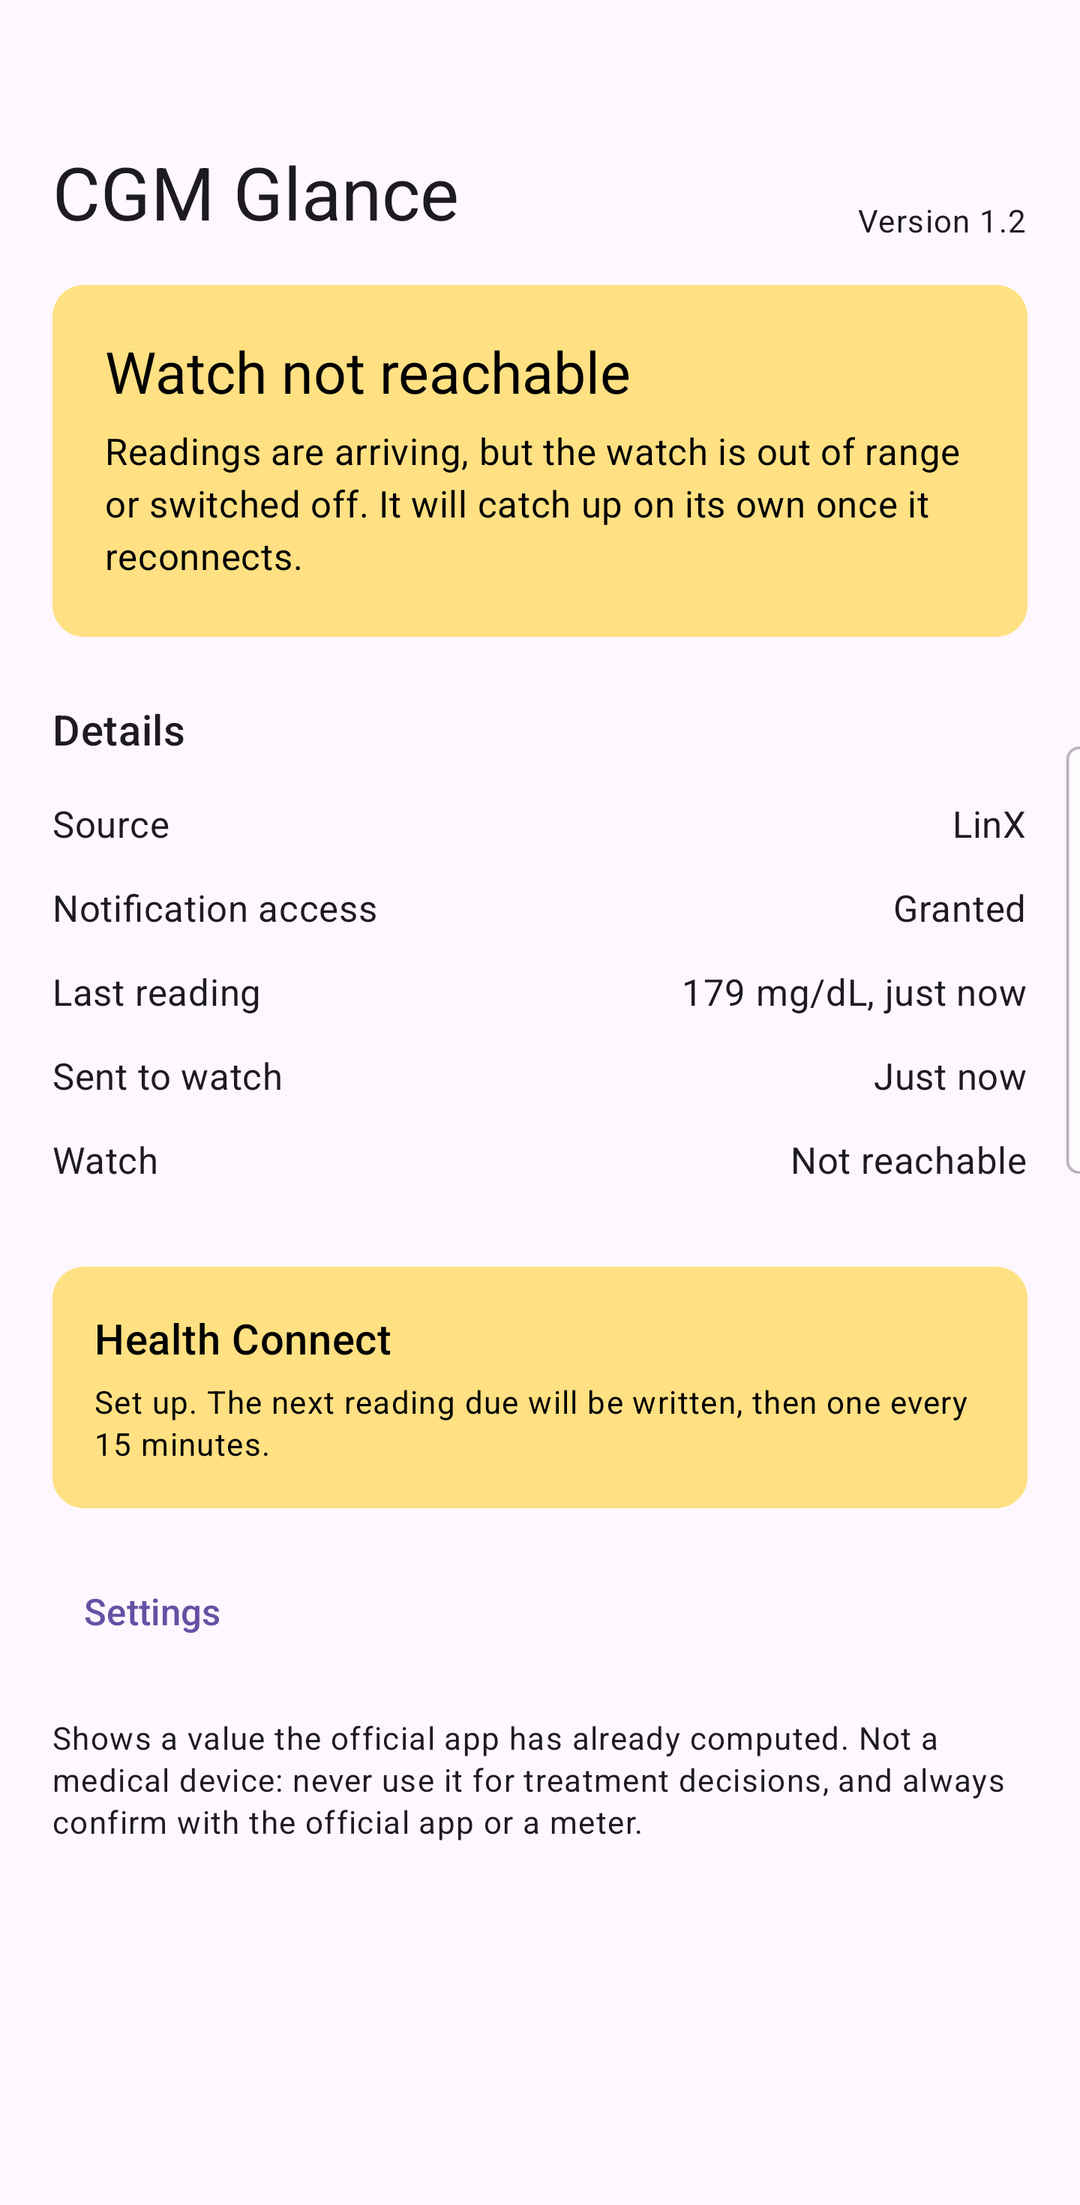
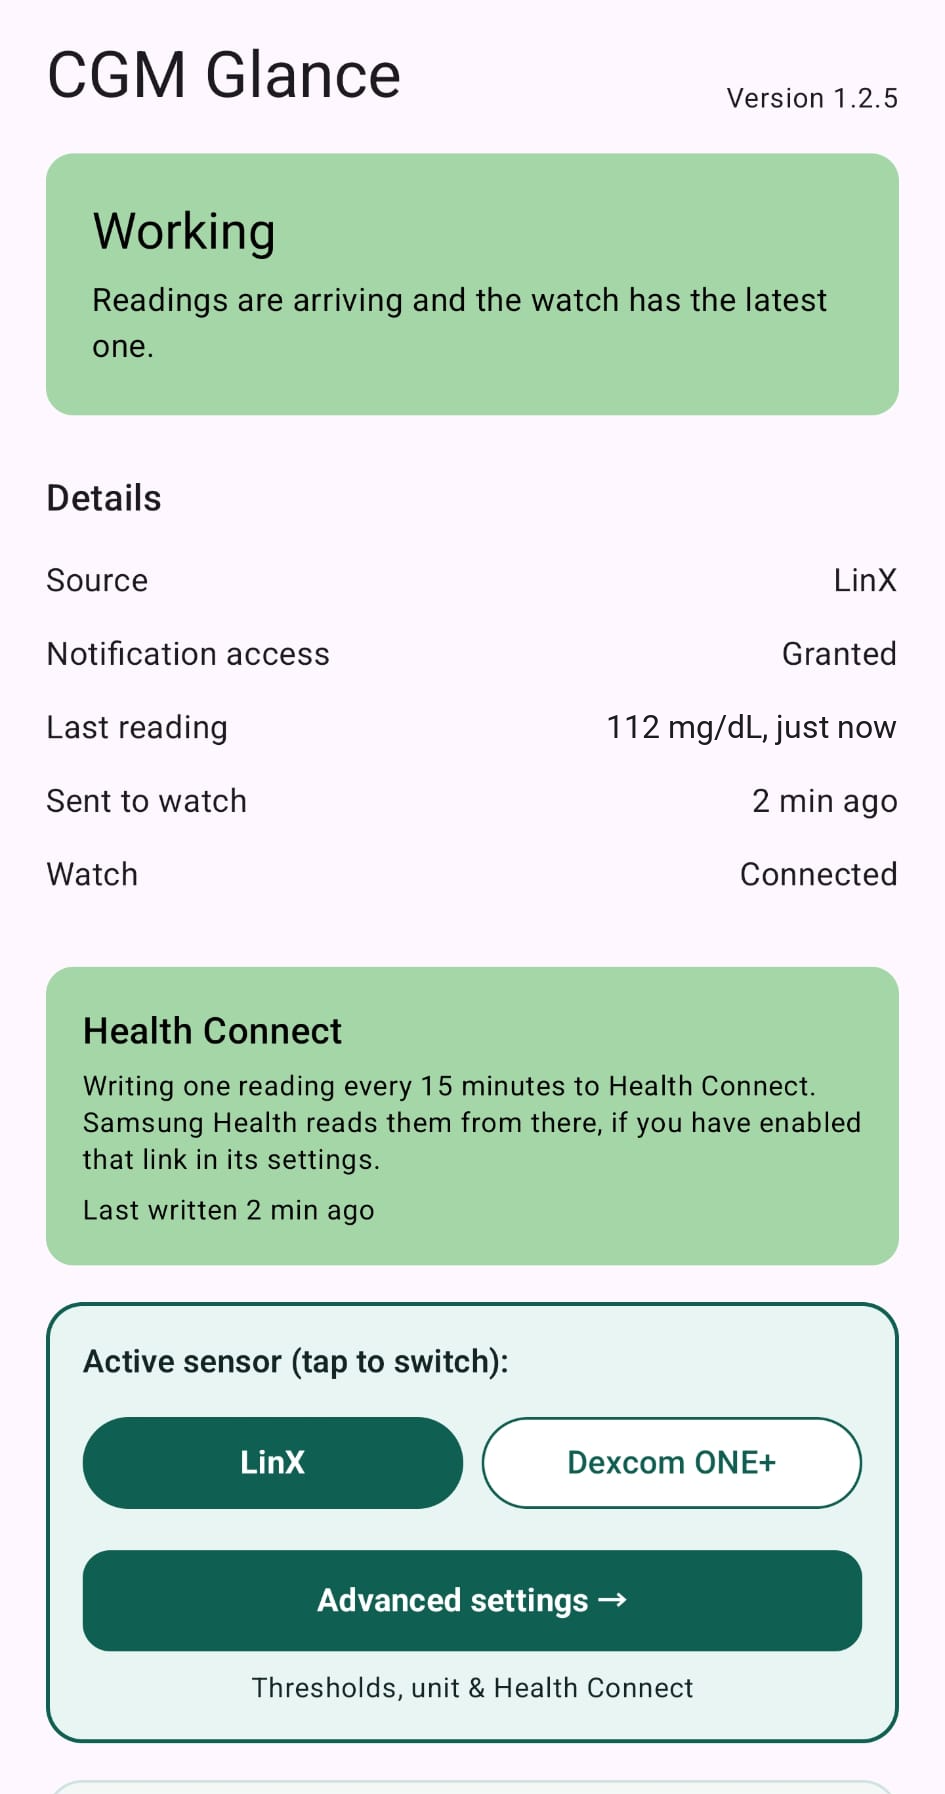
feat(site): working-state screenshot, link preview image and FAQ
- status screenshot now shows the app working on 1.2.5 instead of
  "Watch not reachable"; the glucose value is illustrative
- og-image.png (1200x630) with absolute og:image/og:url so shared links
  get a proper preview
- FAQ section answering the questions people ask before installing

Not deployed yet: the site goes live once the production release is
approved and the store page is public.

diff --git a/site/index.html b/site/index.html
@@ -7,7 +7,12 @@
 <meta name="description" content="Aplicație Android & Wear OS gratuită, fără reclame și Open Source pentru vizualizarea glicemiei din SinoCare LinX și Dexcom ONE+ direct pe ceas și în widget-uri pe telefon.">
 <meta property="og:title" content="CGM Glance — Glicemia pe Ceas (Wear OS) & Widget Telefon">
 <meta property="og:description" content="Vezi glicemia din SinoCare LinX și Dexcom ONE+ direct pe cadranul ceasului (Wear OS) și în widget-uri pe ecranul telefonului. 100% gratuit, fără cont, fără reclame.">
-<meta property="og:image" content="assets/phone-screenshot-2.png">
+<meta property="og:type" content="website">
+<meta property="og:url" content="https://cgm-glance-play.web.app/">
+<meta property="og:image" content="https://cgm-glance-play.web.app/assets/og-image.png">
+<meta property="og:image:width" content="1200">
+<meta property="og:image:height" content="630">
+<meta name="twitter:card" content="summary_large_image">
 <meta name="theme-color" content="#f2f5f1" media="(prefers-color-scheme: light)">
 <meta name="theme-color" content="#0c1513" media="(prefers-color-scheme: dark)">
 <link rel="icon" type="image/png" href="assets/icon-512.png">
@@ -231,6 +236,16 @@
   .steps .actions { display: grid; gap: 10px; margin-top: 6px; }
   .keep { margin-top: 24px; max-width: 46rem; color: var(--ink-soft); }
   .keep strong { color: var(--ink); }
+  .faq { max-width: 46rem; border-top: 1px solid var(--line); }
+  .faq details { border-bottom: 1px solid var(--line); }
+  .faq summary {
+    cursor: pointer; list-style: none; padding: 16px 28px 16px 0; position: relative;
+    font: 700 1.05rem/1.3 var(--display); letter-spacing: -0.01em;
+  }
+  .faq summary::-webkit-details-marker { display: none; }
+  .faq summary::after { content: "+"; position: absolute; right: 4px; top: 14px; color: var(--accent); font-size: 1.3rem; font-weight: 500; }
+  .faq details[open] summary::after { content: "–"; }
+  .faq p { color: var(--ink-soft); font-size: 0.97rem; padding: 0 28px 18px 0; }
 
   /* showcases */
   .shots { display: grid; gap: clamp(24px, 4vw, 40px); }
@@ -679,6 +694,65 @@
           <dd lang="en">No ads, no analytics service and no account to create. Install and use.</dd>
         </div>
       </dl>
+    </div>
+  </section>
+
+  <section class="band section" id="faq">
+    <div class="wrap">
+      <div class="section-head">
+        <p class="eyebrow"><span lang="ro">Întrebări frecvente</span><span lang="en">Questions</span></p>
+        <h2 lang="ro">Ce întreabă lumea înainte să instaleze</h2>
+        <h2 lang="en">What people ask before installing</h2>
+        <p lang="ro">Aplicația e făcută de cineva care poartă senzor și o folosește zilnic, de câteva luni.</p>
+        <p lang="en">The app is built by someone who wears a sensor and has used it every day for months.</p>
+      </div>
+      <div class="faq">
+        <details>
+          <summary><span lang="ro">Am nevoie de ceas?</span><span lang="en">Do I need a watch?</span></summary>
+          <p lang="ro">Nu. Widgetul de pe telefon merge și singur; ceasul e un plus.</p>
+          <p lang="en">No. The phone widget works on its own; the watch is a bonus.</p>
+        </details>
+        <details>
+          <summary><span lang="ro">Ce ceasuri merg?</span><span lang="en">Which watches work?</span></summary>
+          <p lang="ro">Orice ceas cu Wear OS 3 sau mai nou: Samsung Galaxy Watch 4 și următoarele, Google Pixel Watch, Xiaomi Watch 2. Ceasurile Samsung mai vechi (Tizen), Huawei, Garmin și Apple Watch nu sunt Wear OS, deci nu merg.</p>
+          <p lang="en">Any Wear OS 3 or newer watch: Samsung Galaxy Watch 4 and later, Google Pixel Watch, Xiaomi Watch 2. Older Samsung watches (Tizen), Huawei, Garmin and Apple Watch are not Wear OS, so they will not work.</p>
+        </details>
+        <details>
+          <summary><span lang="ro">Merge cu Libre, Dexcom G6/G7 sau Dexcom ONE (fără plus)?</span><span lang="en">Does it work with Libre, Dexcom G6/G7 or the original Dexcom ONE?</span></summary>
+          <p lang="ro">Deocamdată nu. Aplicația citește doar SinoCare LinX și Dexcom ONE+.</p>
+          <p lang="en">Not for now. The app reads only SinoCare LinX and Dexcom ONE+.</p>
+        </details>
+        <details>
+          <summary><span lang="ro">Merge pe iPhone?</span><span lang="en">Does it work on iPhone?</span></summary>
+          <p lang="ro">Nu. Doar pe telefoane Android și ceasuri Wear OS.</p>
+          <p lang="en">No. Android phones and Wear OS watches only.</p>
+        </details>
+        <details>
+          <summary><span lang="ro">Ce se întâmplă cu datele mele?</span><span lang="en">What happens to my data?</span></summary>
+          <p lang="ro">Rămân pe telefon și pe ceas. Aplicația nu are permisiunea de internet în Android, deci nu are cum să trimită ceva în altă parte. Codul e public pe GitHub.</p>
+          <p lang="en">It stays on your phone and watch. The app does not have Android's internet permission, so it has no way to send anything elsewhere. The code is public on GitHub.</p>
+        </details>
+        <details>
+          <summary><span lang="ro">Cum ia valoarea?</span><span lang="en">How does it get the value?</span></summary>
+          <p lang="ro">Citește notificarea pe care aplicația oficială a senzorului o afișează oricum pe telefon. Nu se conectează la senzor și nu modifică nimic în aplicația oficială.</p>
+          <p lang="en">It reads the notification the official sensor app already shows on your phone. It does not connect to the sensor and changes nothing in the official app.</p>
+        </details>
+        <details>
+          <summary><span lang="ro">Săgeata e aceeași ca în aplicația oficială?</span><span lang="en">Is the arrow the same as in the official app?</span></summary>
+          <p lang="ro">Nu neapărat. CGM Glance își calculează săgeata din ultimele 10 minute de citiri, deci poate diferi puțin de cea din aplicația senzorului.</p>
+          <p lang="en">Not necessarily. CGM Glance calculates its own arrow from the last 10 minutes of readings, so it can differ slightly from the one in the sensor app.</p>
+        </details>
+        <details>
+          <summary><span lang="ro">Are alarme?</span><span lang="en">Does it have alarms?</span></summary>
+          <p lang="ro">Nu. Doar afișează. Alarmele și deciziile de tratament rămân la aplicația oficială sau la glucometru.</p>
+          <p lang="en">No. It only displays. Alarms and treatment decisions stay with the official app or a meter.</p>
+        </details>
+        <details>
+          <summary><span lang="ro">În ce limbi e aplicația?</span><span lang="en">Which languages does the app speak?</span></summary>
+          <p lang="ro">Română, engleză, germană și franceză. Alegi limba din Setări sau o lași pe cea a telefonului.</p>
+          <p lang="en">English, Romanian, German and French. Pick one in Settings or leave it on the phone's language.</p>
+        </details>
+      </div>
     </div>
   </section>
 </main>
